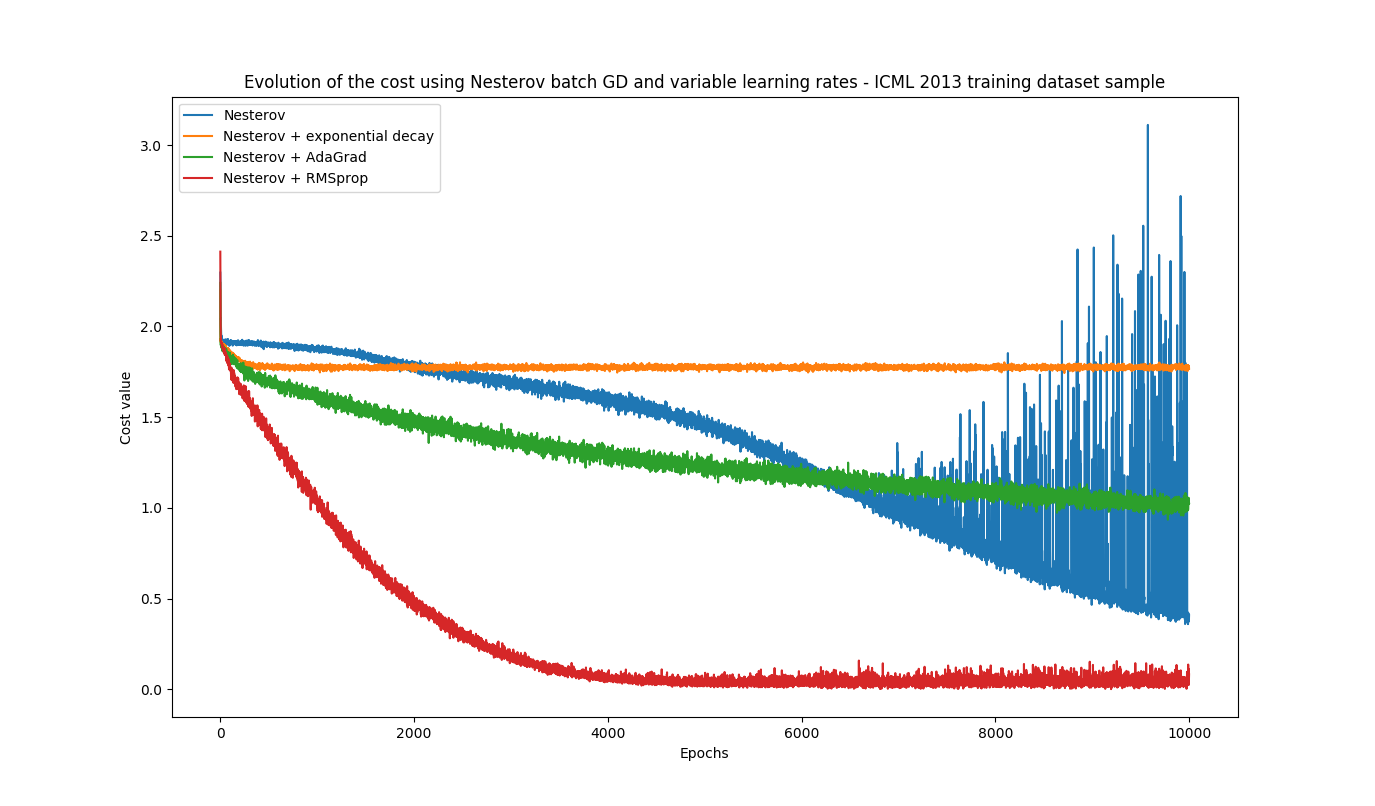
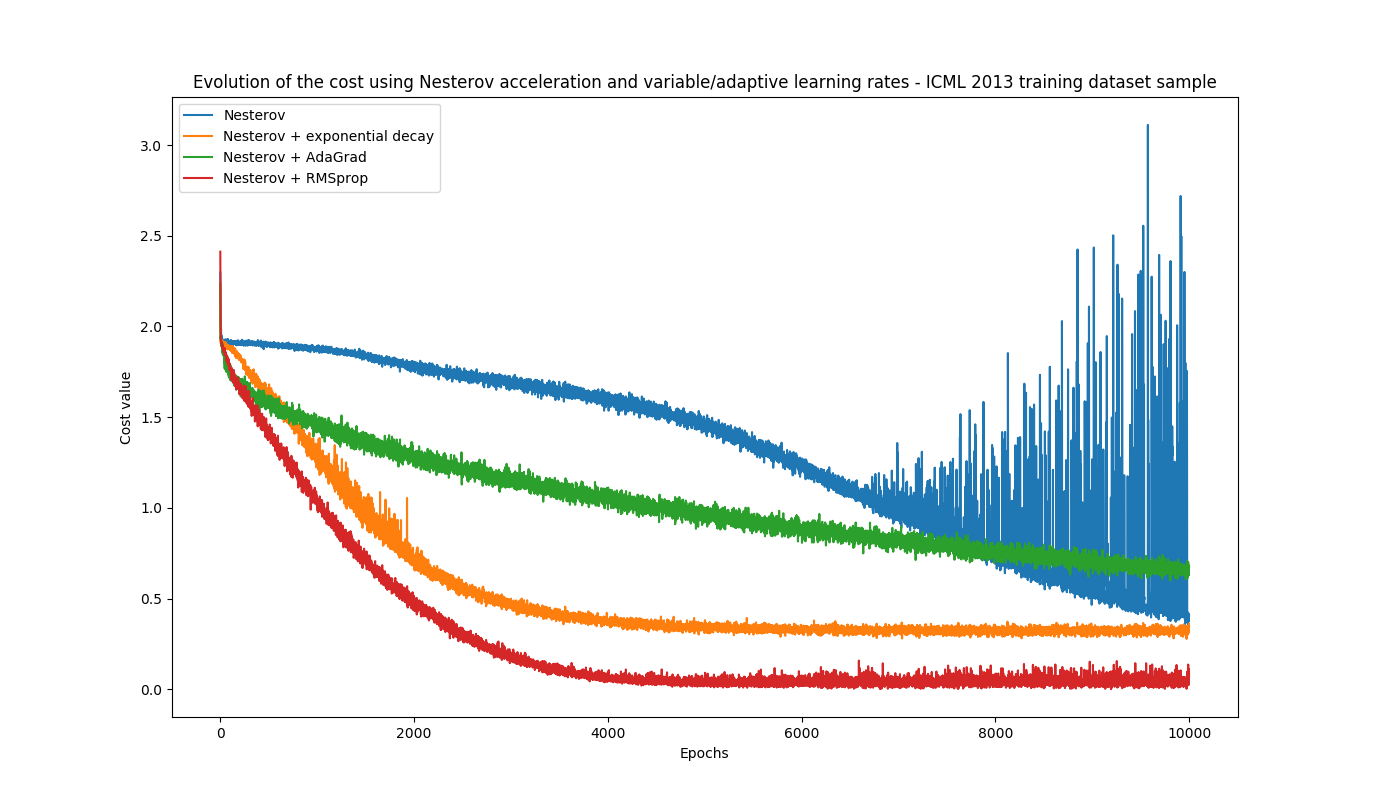
Add files via upload

Changed region(s): [[0.1527, 0.4342, 0.8858, 0.8065], [0.1527, 0.0931, 0.8858, 0.1241]]

diff --git a/visualize_costs_momentum.py b/visualize_costs_momentum.py
@@ -1,0 +1,77 @@
+# Plots the resulting cost for different optimization schemes using 
+# momentum batch GD.
+import numpy as np
+import matplotlib.pyplot as plt
+from sklearn.externals import joblib
+
+
+
+
+
+def main():
+# load test data
+	npzfile = np.load('fer2test1k.npz')
+	X = npzfile['Xtest']
+	Y = npzfile['Ytest']
+
+
+
+#######################################################################
+# # This section analyzes general different optimization schemes when 
+# considering different variable/adaptive learning rates approaches and 
+# plain momentum batch GD.
+
+	from ANN_relu_Multi_batch2 import ANN_relu
+# loades Plain momentum batch GD ANN_relu model
+	model1 = joblib.load('ANN_relu_batch2.sav')
+	cost1 = model1.cost
+	print('Model 1 training time: {:.2f} min'.format(model1.elapsed_t), 
+		'   Test accuracy: {:.3f}'.format(np.mean(Y==model1.predict(X))))
+
+	
+	from ANN_relu_Multi_batch2_expdecay import ANN_relu
+# loades Plain momentum batch GD ANN_relu model
+	model2 = joblib.load('ANN_relu_batch2_expdecay.sav')
+	cost2 = model2.cost
+	print('Model 2 training time: {:.2f} min'.format(model2.elapsed_t), 
+		'   Test accuracy: {:.3f}'.format(np.mean(Y==model2.predict(X))))
+
+
+	from ANN_relu_Multi_batch2_AdaGrad import ANN_relu
+# loades Plain momentum batch GD ANN_relu model
+	model3 = joblib.load('ANN_relu_batch2_AdaGrad.sav')
+	cost3 = model3.cost
+	print('Model 3 training time: {:.2f} min'.format(model3.elapsed_t), 
+		'   Test accuracy: {:.3f}'.format(np.mean(Y==model3.predict(X))))
+
+
+	from ANN_relu_Multi_batch2_RMSprop import ANN_relu
+# loades Plain momentum batch GD ANN_relu model
+	model4 = joblib.load('ANN_relu_batch2_RMSprop.sav')
+	cost4 = model4.cost
+	print('Model 4 training time: {:.2f} min'.format(model4.elapsed_t), 
+		'   Test accuracy: {:.3f}'.format(np.mean(Y==model4.predict(X))))
+
+
+
+# show the optimization cost evolution plots
+	plt.plot(cost1, label='Plain Momentum')
+	plt.plot(cost2, label='Plain Momentum + exponential decay')
+	plt.plot(cost3, label='Plain Momentum + AdaGrad')
+	plt.plot(cost4, label='Plain Momentum + RMSprop')
+
+	plt.legend()
+	plt.xlabel('Epochs')
+	plt.ylabel('Cost value')
+	plt.title('Evolution of the cost using Plain Momentum acceleration and variable/adaptive learning rates - ICML 2013 training dataset sample')
+	plt.show()
+
+
+
+
+
+
+if __name__ == '__main__':
+	main()
+
+

diff --git a/fer_batch2_expdecay.py b/fer_batch2_expdecay.py
@@ -1,11 +1,12 @@
-# Plain momentum batch gradient descent with AdaGrad used for training a 
-# 'relu' ANN model on the ICML 2013 facial recognition dataset.
+# Plain momentum batch gradient descent with exponential learning rate
+# decay used for training a 'relu' ANN model on the ICML 2013 facial 
+# recognition dataset.
 # 
 # P.S: It can take very long time to run depending on the training  
 # dataset size.
 import numpy as np
 import matplotlib.pyplot as plt
-from ANN_relu_Multi_batch2_AdaGrad import ANN_relu
+from ANN_relu_Multi_batch2_expdecay import ANN_relu
 
 
 
@@ -23,12 +24,13 @@ def main():
     print('\n')
 
 
+
 # create the ANN model with a specific number of hidden layers/unities
     model = ANN_relu([100,100,100,100])
 
 
 # train the model with a hyperparameters setting
-    model.fit(X, Y, alpha=1e-3, epochs=10000, reg=1e-2, mu=0.9, show_fig=True)
+    model.fit(X, Y, alpha=1e-4, epochs=10000, reg=1e-2, mu=0.9, show_fig=True)
 
 
 # compute the prediciton/accuracy based on input data
@@ -39,7 +41,7 @@ def main():
 
 # save the model object to a file
     from sklearn.externals import joblib
-    joblib.dump(model, 'ANN_relu_batch2_AdaGrad.sav')
+    joblib.dump(model, 'ANN_relu_batch2_expdecay.sav')
     
 
 

diff --git a/visualize_costs_nesterov.py b/visualize_costs_nesterov.py
@@ -15,8 +15,10 @@ def main():
 
 
 
-##################################################################
-# # This section analyzes general different optimization schemes
+####################################################################
+# # This section analyzes general different optimization schemes when 
+# # considering different variable/adaptive learning rates approaches 
+# # and Nesterov batch GD.
 
 	from ANN_relu_Multi_batch3 import ANN_relu
 # loades Nesterov Momentum batch GD ANN_relu model

diff --git a/fer_batch3_AdaGrad.py b/fer_batch3_AdaGrad.py
@@ -29,7 +29,7 @@ def main():
 
 
 # train the model with a hyperparameters setting
-    model.fit(X, Y, alpha=1e-4, epochs=10000, reg=1e-2, mu=0.9, show_fig=True)
+    model.fit(X, Y, alpha=1e-3, epochs=10000, reg=1e-2, mu=0.9, show_fig=True)
 
 
 # compute the prediciton/accuracy based on input data

diff --git a/fer_batch3_expdecay.py b/fer_batch3_expdecay.py
@@ -30,7 +30,7 @@ def main():
 
 
 # train the model with a hyperparameters setting
-    model.fit(X, Y, alpha=1e-5, epochs=10000, reg=1e-2, mu=0.9, show_fig=True)
+    model.fit(X, Y, alpha=1e-4, epochs=10000, reg=1e-2, mu=0.9, show_fig=True)
 
 
 # compute the prediciton/accuracy based on input data

diff --git a/fer_batch3_RMSprop.py b/fer_batch3_RMSprop.py
@@ -30,7 +30,7 @@ def main():
 
 # train the model with a hyperparameters setting
     model.fit(X, Y, alpha=1e-5, epochs=10000, reg=1e-2, mu=0.9, show_fig=True)
-
+    
 
 # compute the prediciton/accuracy based on input data
     Ypred = model.predict(X)
